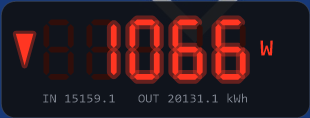
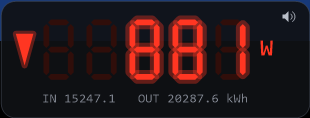
Mute option, double-click to restore/toggle size

diff --git a/powerchk/powerchk.cpp b/powerchk/powerchk.cpp
@@ -49,6 +49,7 @@
 #include <playsoundapi.h>   // PlaySoundW
 #include "resource.h"
 #include <string>
+#include <string_view>
 #include <vector>
 #include <map>
 #include <utility>
@@ -77,13 +78,13 @@ using namespace Gdiplus;
 // Sign convention of the meter's "power" field. Most grid meters report a
 // signed value: positive = drawing from the grid, negative = feeding in. If
 // yours is reversed, set this to false.
-static const bool NEGATIVE_IS_FEEDIN = true;
+static constexpr bool NEGATIVE_IS_FEEDIN = true;
 
-static const bool SHOW_COUNTERS = true;   // tiny in/out kWh line at the bottom
-static const int  DIGIT_COUNT   = 5;      // fits up to 99999 W
+static constexpr bool SHOW_COUNTERS = true;   // tiny in/out kWh line at the bottom
+static constexpr int  DIGIT_COUNT   = 5;      // fits up to 99999 W
 
-static const wchar_t* CRED_FILE = L"powerchk.credentials";
-static const int      DEFAULT_REDIRECT_PORT = 53127;
+static constexpr const wchar_t* CRED_FILE = L"powerchk.credentials";
+static constexpr int      DEFAULT_REDIRECT_PORT = 53127;
 
 // ---------------------------------------------------------------------------
 
@@ -91,7 +92,7 @@ static const int      DEFAULT_REDIRECT_PORT = 53127;
 
 enum { SEG_A = 1, SEG_B = 2, SEG_C = 4, SEG_D = 8, SEG_E = 16, SEG_F = 32, SEG_G = 64 };
 
-static const int kSeg7[10] = {
+static constexpr int kSeg7[10] = {
     SEG_A|SEG_B|SEG_C|SEG_D|SEG_E|SEG_F,       // 0
     SEG_B|SEG_C,                               // 1
     SEG_A|SEG_B|SEG_G|SEG_E|SEG_D,             // 2
@@ -141,13 +142,12 @@ static std::atomic<bool>  g_running{ true };
 static float              g_scale = 1.0f;      // effective = dpi * user
 static float              g_dpiScale = 1.0f;
 static float              g_userScale = 1.0f;  // persisted zoom (scale= in creds)
+static float              g_stashedScale = 0.0f;  // size remembered by the reset toggle (0 = none)
 
-static std::wstring       g_localHost = L"192.168.1.111";
-static std::wstring       g_localPath = L"/v1/json";
+static std::wstring       g_localHost = L"192.168.1.111";   // host/IP is overridable
 static int                g_localIntervalMs = 1000;
 
 static std::wstring       g_cloudHost = L"everhome.cloud";
-static INTERNET_PORT      g_cloudPort = 443;
 static int                g_cloudIntervalMs = 60000;   // conservative; no documented limit
 static std::wstring       g_cloudDevicePath;           // e.g. /device/123
 static bool               g_cloudEnabled = false;
@@ -158,6 +158,10 @@ static ULONGLONG          g_accessExpiry = 0;                     // GetTickCoun
 
 static std::atomic<bool>  g_soundAlert{ true };   // beep on a green->red (export->import) edge
 static std::wstring       g_alertSound;           // optional custom WAV; empty = system sound
+
+// fixed endpoints (compile-time constants)
+static constexpr std::wstring_view g_localPath = L"/v1/json";   // ecotracker local path
+static constexpr INTERNET_PORT     g_cloudPort = 443;           // everHome cloud (HTTPS)
 
 // ---- small utilities -------------------------------------------------------
 
@@ -620,6 +624,47 @@ static Layout MakeLayout(float s) {
     return L;
 }
 
+static RECT SpeakerRect() {
+    Layout L = MakeLayout(g_scale);
+    int grip = (int)(8 * g_dpiScale); if (grip < 6) grip = 6;
+    int sz = (int)(20 * g_scale);     if (sz < 14) sz = 14;
+    int inset = (int)(9 * g_scale);   if (inset < grip + 2) inset = grip + 2;
+    int x0 = L.w - sz - inset;                        // top-right corner (clear of the flow arrow)
+    // vertically centered between the top of the window and the top-of-arrow line
+    float arrowTop = L.digitsY + L.cellH * 0.26f;
+    int y0 = (int)(arrowTop * 0.5f) - sz / 2; if (y0 < 2) y0 = 2;
+    return RECT{ x0, y0, x0 + sz, y0 + sz };
+}
+
+static void DrawSpeaker(Graphics& g, const RECT& r, bool on) {
+    float x = (float)r.left, y = (float)r.top;
+    float W = (float)(r.right - r.left), H = (float)(r.bottom - r.top);
+    auto P = [&](float nx, float ny){ return PointF(x + nx * W, y + ny * H); };
+
+    Color bodyCol = on ? Color(235, 200, 206, 216) : Color(165, 150, 154, 162);
+    GraphicsPath body;
+    PointF pts[6] = { P(0.10f,0.40f), P(0.22f,0.40f), P(0.40f,0.22f),
+                      P(0.40f,0.78f), P(0.22f,0.60f), P(0.10f,0.60f) };
+    body.AddPolygon(pts, 6);
+    SolidBrush bb(bodyCol);
+    g.FillPath(&bb, &body);
+
+    if (on) {
+        float cx = x + 0.42f * W, cy = y + 0.50f * H;
+        float wpw = 0.05f * W; if (wpw < 1.0f) wpw = 1.0f;
+        Pen wp(Color(210, 190, 196, 206), wpw);
+        wp.SetStartCap(LineCapRound); wp.SetEndCap(LineCapRound);
+        float r1 = 0.16f * W, r2 = 0.30f * W;
+        g.DrawArc(&wp, cx - r1, cy - r1, 2 * r1, 2 * r1, -55.0f, 110.0f);
+        g.DrawArc(&wp, cx - r2, cy - r2, 2 * r2, 2 * r2, -55.0f, 110.0f);
+    } else {
+        float spw = 0.09f * W; if (spw < 1.5f) spw = 1.5f;
+        Pen sp(Color(255, 255, 70, 55), spw);
+        sp.SetStartCap(LineCapRound); sp.SetEndCap(LineCapRound);
+        g.DrawLine(&sp, P(0.48f, 0.24f), P(0.02f, 0.76f));
+    }
+}
+
 static void DrawWidget(Graphics& g, const Layout& L, const Reading& r) {
     g.SetSmoothingMode(SmoothingModeAntiAlias);
     g.SetTextRenderingHint(TextRenderingHintAntiAlias);
@@ -701,11 +746,14 @@ static void DrawWidget(Graphics& g, const Layout& L, const Reading& r) {
     // cloud-fallback indicator
     if (r.source == SrcCloud) {
         float rad = 3.5f * L.scale;
-        float cx = L.w - 11.0f * L.scale, cy = 11.0f * L.scale;
+        float cx = 11.0f * L.scale, cy = 11.0f * L.scale;
         GraphicsPath dot;
         dot.AddEllipse(cx - rad, cy - rad, rad * 2, rad * 2);
         FillGlow(g, dot, Color(255, 80, 200, 255), Color(90, 80, 200, 255), 4.0f * L.scale);
     }
+
+    // mute toggle (small speaker, top-left)
+    DrawSpeaker(g, SpeakerRect(), g_soundAlert.load());
 }
 
 // ---- render into the layered window ---------------------------------------
@@ -783,7 +831,7 @@ static void WorkerThread() {
 
     while (g_running.load()) {
         Reading r;
-        HttpResult lr = HttpRequest(L"GET", g_localHost, 80, false, g_localPath, L"", "", false);
+        HttpResult lr = HttpRequest(L"GET", g_localHost, 80, false, std::wstring(g_localPath), L"", "", false);
         if (lr.ok && lr.status == 200) {
             if (auto p = JsonNumber(lr.body, "power")) {
                 r.power = *p; r.valid = true; r.source = SrcLocal;
@@ -954,18 +1002,36 @@ static int RunLogin(int port) {
 // ---- window ----------------------------------------------------------------
 
 static void ParseLocalEndpoint(const std::wstring& s) {
-    if (s.rfind(L"http", 0) == 0) {
+    if (s.rfind(L"http", 0) == 0) {          // full URL: take the host only (path is fixed)
         URL_COMPONENTS uc{};
         uc.dwStructSize = sizeof(uc);
-        wchar_t hostBuf[256]{}, pathBuf[1024]{};
+        wchar_t hostBuf[256]{};
         uc.lpszHostName = hostBuf; uc.dwHostNameLength = 256;
-        uc.lpszUrlPath  = pathBuf; uc.dwUrlPathLength  = 1024;
-        if (WinHttpCrackUrl(s.c_str(), (DWORD)s.size(), 0, &uc)) {
+        if (WinHttpCrackUrl(s.c_str(), (DWORD)s.size(), 0, &uc))
             g_localHost.assign(uc.lpszHostName, uc.dwHostNameLength);
-            if (uc.dwUrlPathLength) g_localPath.assign(uc.lpszUrlPath, uc.dwUrlPathLength);
-        }
     } else {
         g_localHost = s;
+    }
+}
+
+static void ApplyUserScale(HWND hwnd, float userScale) {
+    g_userScale = userScale;
+    g_scale = g_dpiScale * g_userScale;
+    Layout L = MakeLayout(g_scale);
+    RECT wr; GetWindowRect(hwnd, &wr);
+    SetWindowPos(hwnd, nullptr, wr.right - L.w, wr.top, L.w, L.h, SWP_NOZORDER | SWP_NOACTIVATE);
+    RenderNow();
+    char b[32]; snprintf(b, sizeof(b), "%.3f", (double)userScale);
+    SetCredLine("scale", b);
+}
+// Double-click toggles between the current custom size and reset (1x),
+// remembering the custom size so the next double-click restores it.
+static void ToggleResetSize(HWND hwnd) {
+    if (std::fabs(g_userScale - 1.0f) > 0.01f) {
+        g_stashedScale = g_userScale;
+        ApplyUserScale(hwnd, 1.0f);
+    } else if (g_stashedScale > 0.01f) {
+        ApplyUserScale(hwnd, g_stashedScale);
     }
 }
 
@@ -986,8 +1052,28 @@ static LRESULT CALLBACK WndProc(HWND hwnd, UINT msg, WPARAM wp, LPARAM lp) {
         if (R_) return HTRIGHT;
         if (T_) return HTTOP;
         if (B_) return HTBOTTOM;
+        RECT spk = SpeakerRect();
+        if (x >= spk.left && x < spk.right && y >= spk.top && y < spk.bottom) return HTCLIENT;
         return HTCAPTION;
     }
+
+    case WM_LBUTTONUP: {
+        POINT pt; GetCursorPos(&pt);
+        RECT wr; GetWindowRect(hwnd, &wr);
+        int x = pt.x - wr.left, y = pt.y - wr.top;
+        RECT spk = SpeakerRect();
+        if (x >= spk.left && x < spk.right && y >= spk.top && y < spk.bottom) {
+            bool nv = !g_soundAlert.load();
+            g_soundAlert = nv;
+            SetCredLine("sound_alert", nv ? "1" : "0");
+            RenderNow();
+        }
+        return 0;
+    }
+
+    case WM_NCLBUTTONDBLCLK:
+        if (wp == HTCAPTION) { ToggleResetSize(hwnd); return 0; }
+        break;
 
     case WM_APP_DATA:
         RenderNow();
@@ -996,8 +1082,6 @@ static LRESULT CALLBACK WndProc(HWND hwnd, UINT msg, WPARAM wp, LPARAM lp) {
     case WM_NCRBUTTONUP: {
         POINT pt; GetCursorPos(&pt);
         HMENU m = CreatePopupMenu();
-        AppendMenuW(m, MF_STRING | (g_soundAlert.load() ? MF_CHECKED : MF_UNCHECKED), 2,
-                    L"Sound alert on green\u2192red");
         AppendMenuW(m, MF_STRING, 3, L"Reset size");
         AppendMenuW(m, MF_SEPARATOR, 0, nullptr);
         AppendMenuW(m, MF_STRING, 1, L"Exit");
@@ -1005,14 +1089,9 @@ static LRESULT CALLBACK WndProc(HWND hwnd, UINT msg, WPARAM wp, LPARAM lp) {
         int cmd = TrackPopupMenu(m, TPM_RETURNCMD | TPM_RIGHTBUTTON | TPM_NONOTIFY, pt.x, pt.y, 0, hwnd, nullptr);
         DestroyMenu(m);
         if (cmd == 1) DestroyWindow(hwnd);
-        else if (cmd == 2) { bool nv = !g_soundAlert.load(); g_soundAlert = nv; SetCredLine("sound_alert", nv ? "1" : "0"); }
         else if (cmd == 3) {
-            g_userScale = 1.0f; g_scale = g_dpiScale;
-            Layout L = MakeLayout(g_scale);
-            RECT wr; GetWindowRect(hwnd, &wr);
-            SetWindowPos(hwnd, nullptr, wr.right - L.w, wr.top, L.w, L.h, SWP_NOZORDER | SWP_NOACTIVATE);
-            RenderNow();
-            SetCredLine("scale", "1.000");
+            if (std::fabs(g_userScale - 1.0f) > 0.01f) g_stashedScale = g_userScale;
+            ApplyUserScale(hwnd, 1.0f);
         }
         return 0;
     }
@@ -1117,6 +1196,7 @@ int WINAPI wWinMain(HINSTANCE hInst, HINSTANCE, PWSTR, int) {
                                       GetSystemMetrics(SM_CXSMICON), GetSystemMetrics(SM_CYSMICON), 0);
     WNDCLASSEXW wc{};
     wc.cbSize = sizeof(wc);
+    wc.style = CS_DBLCLKS;
     wc.lpfnWndProc = WndProc;
     wc.hInstance = hInst;
     wc.lpszClassName = L"PowerChkWidget";

diff --git a/powerchk/resource.h b/powerchk/resource.h
@@ -1,2 +1,15 @@
 #pragma once
+
 #define IDI_POWERCHK 101
+
+// Version — bump here; the .rc VERSIONINFO (and code, if desired) read these.
+#define PCHK_VER_MAJOR 1
+#define PCHK_VER_MINOR 0
+#define PCHK_VER_PATCH 2
+#define PCHK_VER_BUILD 0
+
+#define PCHK_VER_NUM  PCHK_VER_MAJOR, PCHK_VER_MINOR, PCHK_VER_PATCH, PCHK_VER_BUILD
+#define PCHK__STR2(x) #x
+#define PCHK__STR(x)  PCHK__STR2(x)
+#define PCHK_VER_STR  PCHK__STR(PCHK_VER_MAJOR) "." PCHK__STR(PCHK_VER_MINOR) "." \
+                      PCHK__STR(PCHK_VER_PATCH) "." PCHK__STR(PCHK_VER_BUILD)

diff --git a/README.md b/README.md
@@ -8,10 +8,10 @@ A small always-on-top Windows widget that shows live grid power from an
 - **Consumption / import** → red
 - **Feed-in / export** → green
 - Tiny in/out kWh counters along the bottom (toggle with `SHOW_COUNTERS`)
-- A small **cyan dot** (top-right) means the reading is coming from the cloud
+- A small **cyan dot** (top-left) means the reading is coming from the cloud
   fallback rather than the local device.
-- **Sound alert** on a green→red edge (export→import). Right-click to toggle;
-  the setting is remembered. Off with `sound_alert=0`; custom PCM `.wav` via `alert_sound` (single backslashes,
+- **Sound alert** on a green→red edge (export→import). Click the small **speaker icon** in the
+  top-right corner to mute/unmute; the setting is remembered. Off with `sound_alert=0`; custom PCM `.wav` via `alert_sound` (single backslashes,
   no escaping; a missing file falls back to the system sound).
 
 Single self-contained translation unit. No third-party libraries: WinHTTP for
@@ -76,6 +76,9 @@ cl /nologo /std:c++17 /O2 /MT /EHsc /DUNICODE /D_UNICODE powerchk\powerchk.cpp p
    shell32.lib ws2_32.lib winmm.lib
 ```
 
+The `.rc` embeds the app icon and a `VERSIONINFO` block (shown in the EXE's
+Properties → Details). Bump the version numbers in `powerchk/resource.h`.
+
 ## Run
 
 ```
@@ -88,8 +91,9 @@ powerchk.exe --login [port]           rem one-time cloud enrollment
 Drag the window from anywhere with the left mouse button. **Resize** by dragging
 any edge or corner — the LED aspect ratio is preserved and the digits scale as
 crisp vector shapes (no bitmap blur). The zoom is remembered across restarts
-(`scale=` in the credential file). Right-click for a menu: toggle the sound
-alert, **Reset size**, or **Exit**.
+(`scale=` in the credential file). Click the small **speaker icon** (top-right) to mute/unmute the sound alert.
+**Double-click** the display to reset the size to 1×; double-click again to
+restore the previous size. Right-click for a menu: **Reset size** or **Exit**.
 
 ## Cloud fallback setup (optional)
 
